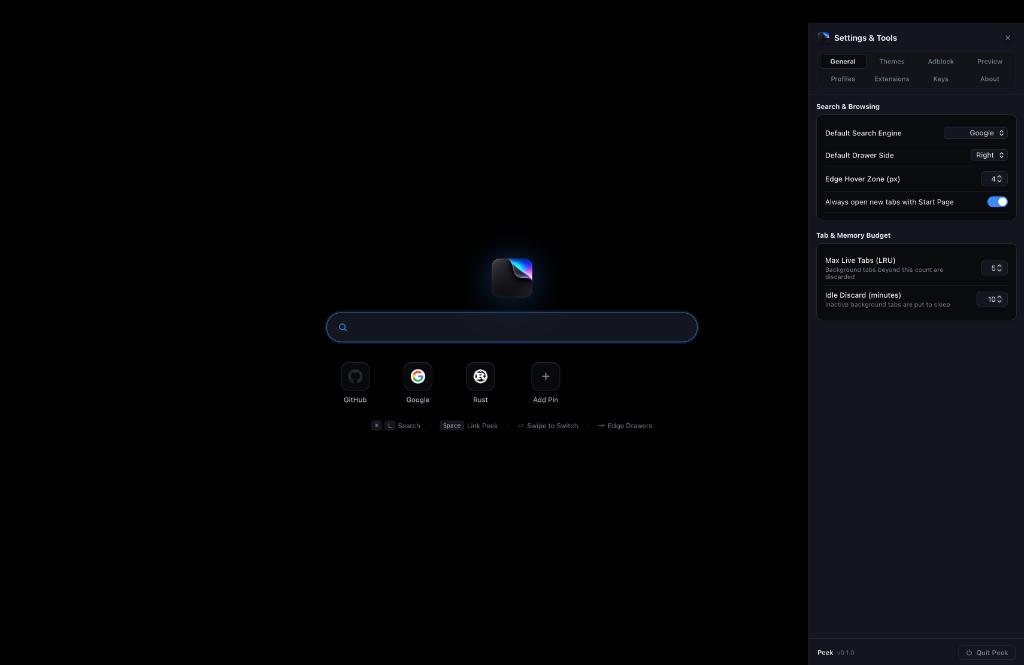
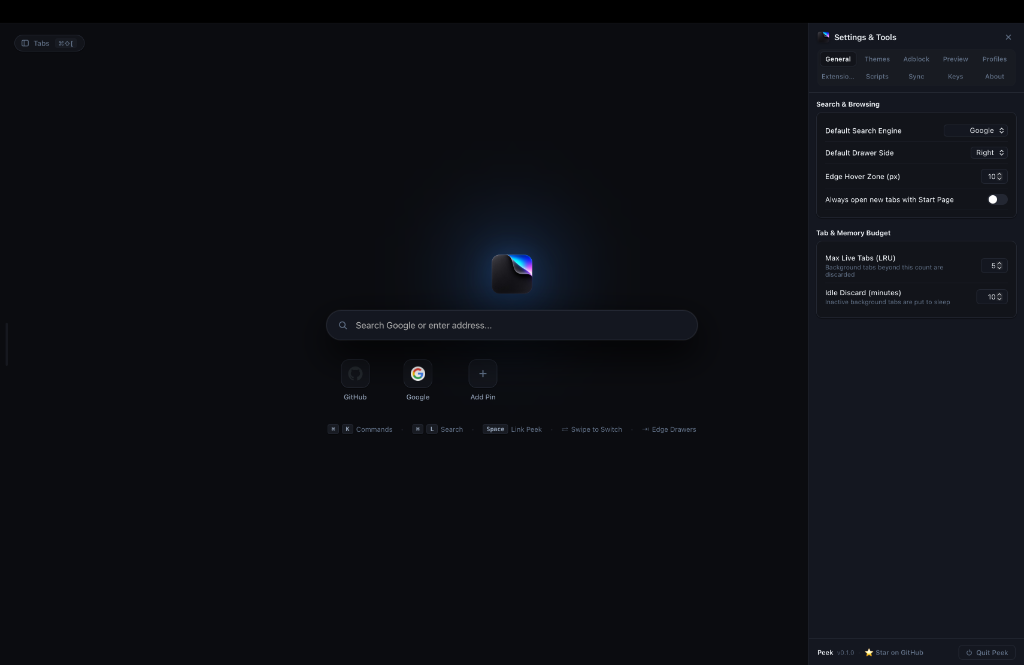
docs: update screenshots with latest interface captures and add browse mode

diff --git a/README.md b/README.md
@@ -70,32 +70,32 @@ Modern web browsers have evolved into monolithic operating systems. They consume
 
 ## 🖼 Visual Showcase
 
-### Vertical Tabs Drawer & Memory Saver Dashboard
-Hover the left screen edge or press `⌘⇧[` to reveal vertical tabs with audio indicators, pinned tabs protection, real-time memory savings statistics, instant tab filtering, and drag-and-drop reordering.
+### Distraction-Free Start Screen & Speed-Dial
+Focused search with ambient backlight, speed-dial pinned site cards, and immediate keyboard accessibility shortcuts (`⌘K`, `⌘L`, `Space`, `⇄`).
+
+<p align="center">
+  <img src="assets/screenshots/peek-start-dark.png" alt="Peek Minimalist Start Screen and Speed Dial" width="950" />
+</p>
+
+### Browse Mode & Ultra-Slim Docked Top Bar
+When navigating, chrome collapses into an ultra-slim header with navigation chevrons, SSL indicators, quick page utilities (Pin, Clean URL, Markdown, PiP, Smart Night Mode, Reader Mode, Adblock Shield), profile avatars, and inline toast status pills.
+
+<p align="center">
+  <img src="assets/screenshots/peek-browse-mode.png" alt="Peek Browse Mode and Docked Top Bar" width="950" />
+</p>
+
+### Vertical Tabs Workspace & Memory Saver Dashboard
+Hover the left screen edge or press `⌘⇧[` to reveal vertical tabs with pinned tabs, tab groups, instant filtering, and real-time memory savings statistics (`380MB saved`) with 1-click **Hibernate Others**.
 
 <p align="center">
   <img src="assets/screenshots/peek-vertical-tabs.png" alt="Peek Vertical Tabs Drawer and Memory Saver Dashboard" width="950" />
 </p>
 
-### Settings, Privacy Engine & Memory Budget
-Hover the right edge or press `⌘⇧]` to customize privacy filters, manage separate browsing profiles, configure LRU memory discard thresholds, and select your preferred search engine.
+### Settings, Content Blocking & Extension Engine
+Hover the right edge or press `⌘⇧]` to customize privacy filters, manage Manifest V3 extensions, separate browsing profiles, and configure LRU memory discard thresholds.
 
 <p align="center">
   <img src="assets/screenshots/peek-settings-tools.png" alt="Peek Settings, Content Blocking and Memory Budget" width="950" />
-</p>
-
-### Instant Omnibar Suggestions with SQLite FTS5
-Instant fuzzy search and prefix matching across open tabs, visit history (powered by SQLite Full-Text Search FTS5), and search suggestions.
-
-<p align="center">
-  <img src="assets/screenshots/peek-search-suggestions.png" alt="Peek Omnibar Suggestions and Search" width="950" />
-</p>
-
-### Distraction-Free Light Mode
-A tokenized, contrast-compliant light palette designed for daytime productivity.
-
-<p align="center">
-  <img src="assets/screenshots/peek-start-light.png" alt="Peek Light Mode Start Screen" width="950" />
 </p>
 
 ---
